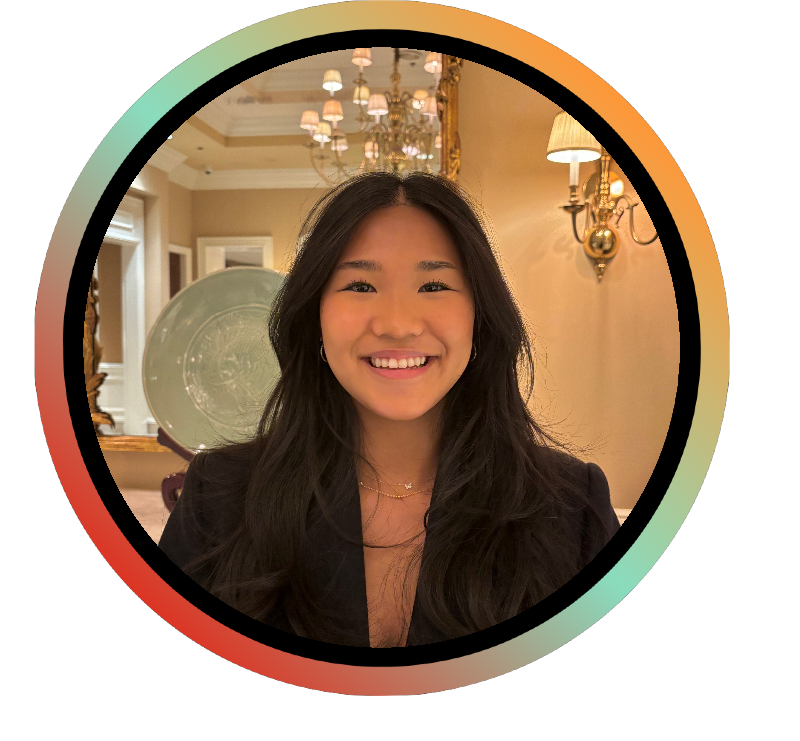
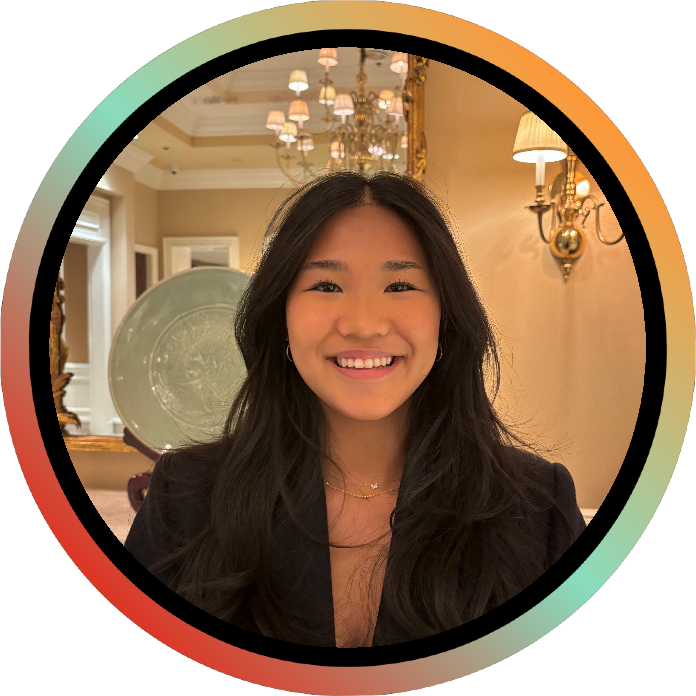
Team carousel: auto-run without pause button; consistent photo sizes and frames

diff --git a/src/home/sections/Team.jsx b/src/home/sections/Team.jsx
@@ -69,7 +69,6 @@ const Avatar = styled.li`
   height: ${AVATAR}px;
   border-radius: 50%;
   overflow: hidden;
-  background: ${color.inverseSubtle};
 `;
 const Tooltip = styled.span`
   position: absolute;
@@ -89,23 +88,6 @@ const Tooltip = styled.span`
   .name { ${type.labelM}; font-weight: 600; }
   .role { ${type.caption}; color: ${color.inkInverseMuted}; margin-top: 2px; }
 `;
-const Controls = styled.div`
-  display: flex;
-  align-items: center;
-  gap: 12px;
-`;
-const PauseButton = styled.button`
-  ${type.labelM};
-  border: 1px solid rgba(255, 255, 255, 0.4);
-  background: transparent;
-  color: ${color.inkInverse};
-  border-radius: 999px;
-  padding: 11px 18px;
-  cursor: pointer;
-  &:hover { border-color: #fff; }
-  @media (prefers-reduced-motion: reduce) { display: none; }
-`;
-
 function Avatars({ hidden }) {
   return team.map((m) => (
     <Avatar key={(hidden ? "b-" : "a-") + m.name} aria-hidden={hidden || undefined}>
@@ -120,7 +102,6 @@ function Avatars({ hidden }) {
 
 export default function Team() {
   const [hovering, setHovering] = useState(false);
-  const [stopped, setStopped] = useState(false);
 
   return (
     <Section id="team" aria-labelledby="team-title">
@@ -137,20 +118,15 @@ export default function Team() {
           aria-label="Team members"
           role="region"
         >
-          <Track $duration={team.length * SECONDS_PER_PERSON} $paused={hovering || stopped}>
+          <Track $duration={team.length * SECONDS_PER_PERSON} $paused={hovering}>
             <Avatars />
             <Avatars hidden />
           </Track>
         </Viewport>
 
-        <Controls>
-          <Button to="/meetOurTeam" variant="secondary" onClick={() => window.scrollTo(0, 0)}>
-            Meet the team
-          </Button>
-          <PauseButton type="button" aria-pressed={stopped} onClick={() => setStopped((s) => !s)}>
-            {stopped ? "Play" : "Pause"}
-          </PauseButton>
-        </Controls>
+        <Button to="/meetOurTeam" variant="secondary" onClick={() => window.scrollTo(0, 0)}>
+          Meet the team
+        </Button>
       </Card>
     </Section>
   );

diff --git a/src/home/TeamPhotoFill.jsx b/src/home/TeamPhotoFill.jsx
@@ -1,14 +1,28 @@
 import React from "react";
 import styled from "styled-components";
 
-// Same ring as the frames baked into the older portraits, so every photo matches.
+// Matches the frame baked into the older portraits: a gradient ring ~4.3% of the
+// diameter, then a black band ~3.2%, then the photo. Percent padding scales with size,
+// so CSS-framed and baked-in photos line up at any avatar size.
 const Ring = styled.div`
   width: 100%;
   height: 100%;
-  padding: 5%;
+  padding: 4.3%;
   border-radius: 50%;
   background: conic-gradient(from 45deg, #ff9933, #87dabe, #e42e1c, #87dabe, #ff9933);
-  & > div { width: 100%; height: 100%; border: 3px solid #000; border-radius: 50%; overflow: hidden; }
+  & > div {
+    width: 100%;
+    height: 100%;
+    padding: 3.4%;
+    border-radius: 50%;
+    background: #000;
+  }
+  & > div > div {
+    width: 100%;
+    height: 100%;
+    border-radius: 50%;
+    overflow: hidden;
+  }
 `;
 const Img = styled.img`
   display: block;
@@ -18,7 +32,9 @@ const Img = styled.img`
 `;
 
 /**
- * A team member's photo filling its (round) parent, using the crop settings from
+ * A team member's photo filling its (round) parent. Older portraits have the frame
+ * baked in (cropped to the circle); newer ones get the same frame in CSS via
+ * `photoFrame`. Crop settings come from
  * src/data/team.js (photoFrame, photoScale, photoPosition, photoOrigin).
  */
 export default function TeamPhotoFill({ member: m, alt, loading = "lazy" }) {
@@ -35,5 +51,5 @@ export default function TeamPhotoFill({ member: m, alt, loading = "lazy" }) {
       }}
     />
   );
-  return m.photoFrame ? <Ring><div>{img}</div></Ring> : img;
+  return m.photoFrame ? <Ring><div><div>{img}</div></div></Ring> : img;
 }

diff --git a/src/pages/MeetOurTeam.jsx b/src/pages/MeetOurTeam.jsx
@@ -66,9 +66,8 @@ const Photo = styled.div`
   height: 120px;
   border-radius: 50%;
   overflow: hidden;
-  border: 1px solid ${color.inkTertiary};
-  background: ${color.surface};
   box-shadow: 0 4px 12px rgba(0, 0, 0, 0.05);
+  &.empty { border: 1px solid ${color.inkTertiary}; background: ${color.surface}; }
   display: flex;
   align-items: center;
   justify-content: center;
@@ -79,7 +78,7 @@ const Photo = styled.div`
 function TeamPhoto({ m }) {
   if (!m.image) {
     return (
-      <Photo>
+      <Photo className="empty">
         <img className="placeholder" src={figma("logo-mark.svg")} alt="" />
       </Photo>
     );
